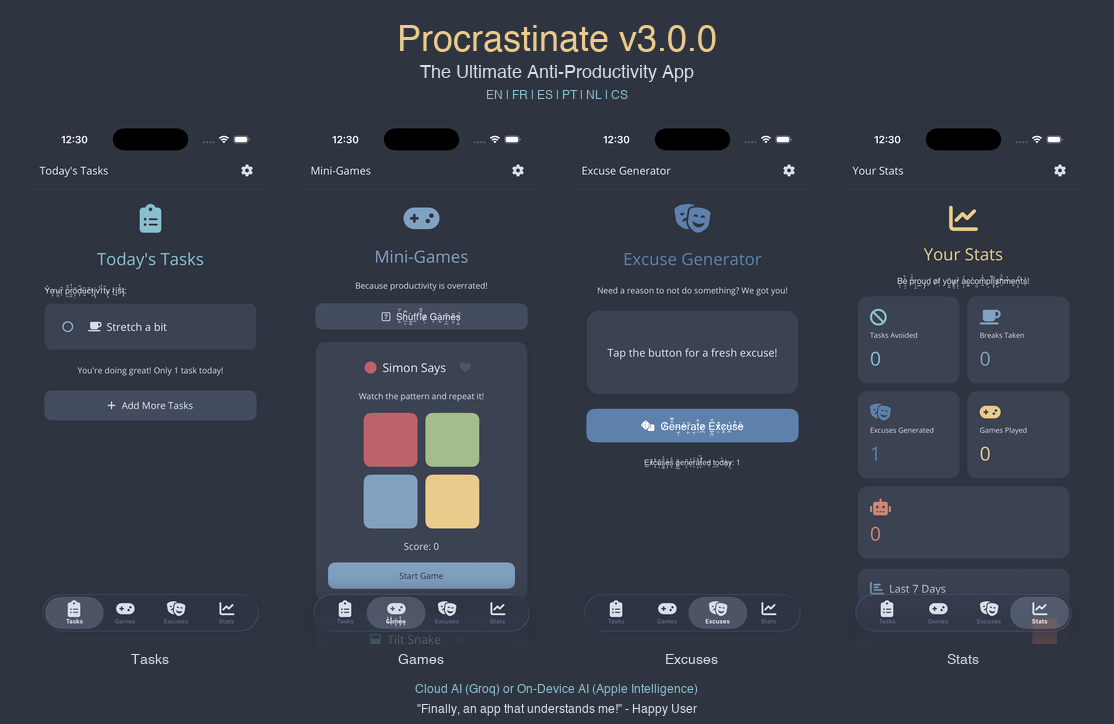
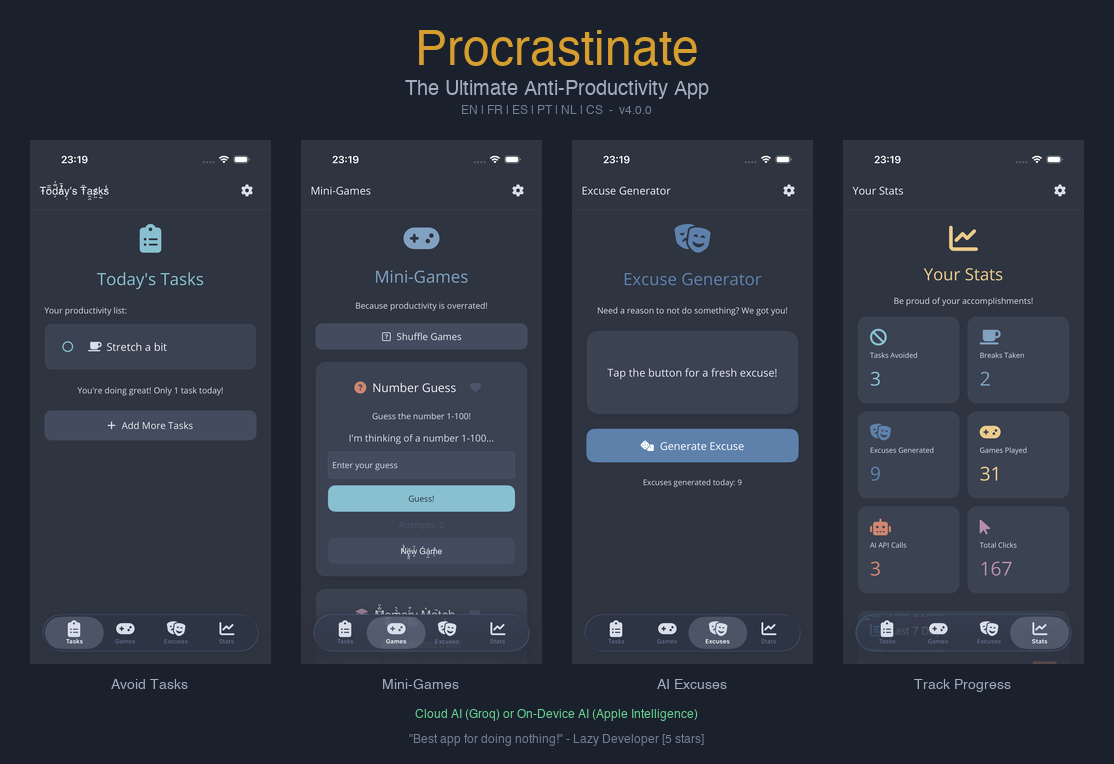
Update collage and README for v4.0.0

diff --git a/README.md b/README.md
@@ -9,9 +9,9 @@ Why be productive when you can procrastinate in style? This app helps you embrac
 ## ✨ Features
 
 - **📋 Tasks** - Track all the things you're definitely going to do... later
-- **🎮 Mini-Games** - 9 addictive games including Simon Says, Minesweeper, Tic Tac Toe, Snake, and more! Favorite your best games for priority shuffling
+- **🎮 Mini-Games** - 9 addictive games including Simon Says, Minesweeper (with flag mode!), Tic Tac Toe (with AI opponent!), Snake, Memory Match, and more! Favorite your best games for priority shuffling
 - **🎭 Excuses** - Generate creative excuses for why you didn't finish that thing (with optional AI-powered generation)
-- **📊 Stats** - View your procrastination statistics and feel accomplished about doing nothing
+- **📊 Stats** - View your procrastination statistics including tasks avoided, games played, AI API calls, and total clicks
 - **🎨 Nord Theme** - Beautiful dark and light themes based on the [Nord](https://www.nordtheme.com/) color palette
 - **⚙ Settings** - Customize your procrastination experience
 
@@ -28,13 +28,19 @@ Procrastinate like a local! The app is fully translated in:
 | Nederlands | 🇳🇱 |
 | Čeština | 🇨🇿 |
 
-## 🤖 AI-Powered Excuses (Optional)
+## 🤖 AI-Powered Features
+
+### AI Excuses
 
 The app can generate creative excuses using AI! Three modes are available:
 
 - **Random** (default) - Uses built-in random excuse templates (no API key needed)
 - **AI (Cloud)** - Uses Groq's free API with `llama-3.3-70b-versatile` for creative, context-aware excuses
 - **AI (On-Device)** - Uses Apple Intelligence on supported iOS/macOS devices (no API key needed)
+
+### AI Tic Tac Toe
+
+Play against a real AI! When Cloud AI or On-Device AI is available, the Tic Tac Toe game uses the LLM to choose its moves. The game displays which AI engine was used and its response for each move.
 
 ### Setting up Groq API (Cloud AI)
 
@@ -45,7 +51,7 @@ The app can generate creative excuses using AI! Three modes are available:
 5. Open the Procrastinate app Settings (gear icon)
 6. Select "AI (Cloud)" for Excuse Mode
 7. Paste your Groq API key in the API Key field
-8. Enjoy AI-generated excuses!
+8. Enjoy AI-generated excuses and AI-powered Tic Tac Toe!
 
 Groq offers a generous free tier with ~14,500 tokens per minute for the llama-3.3-70b model.
 
